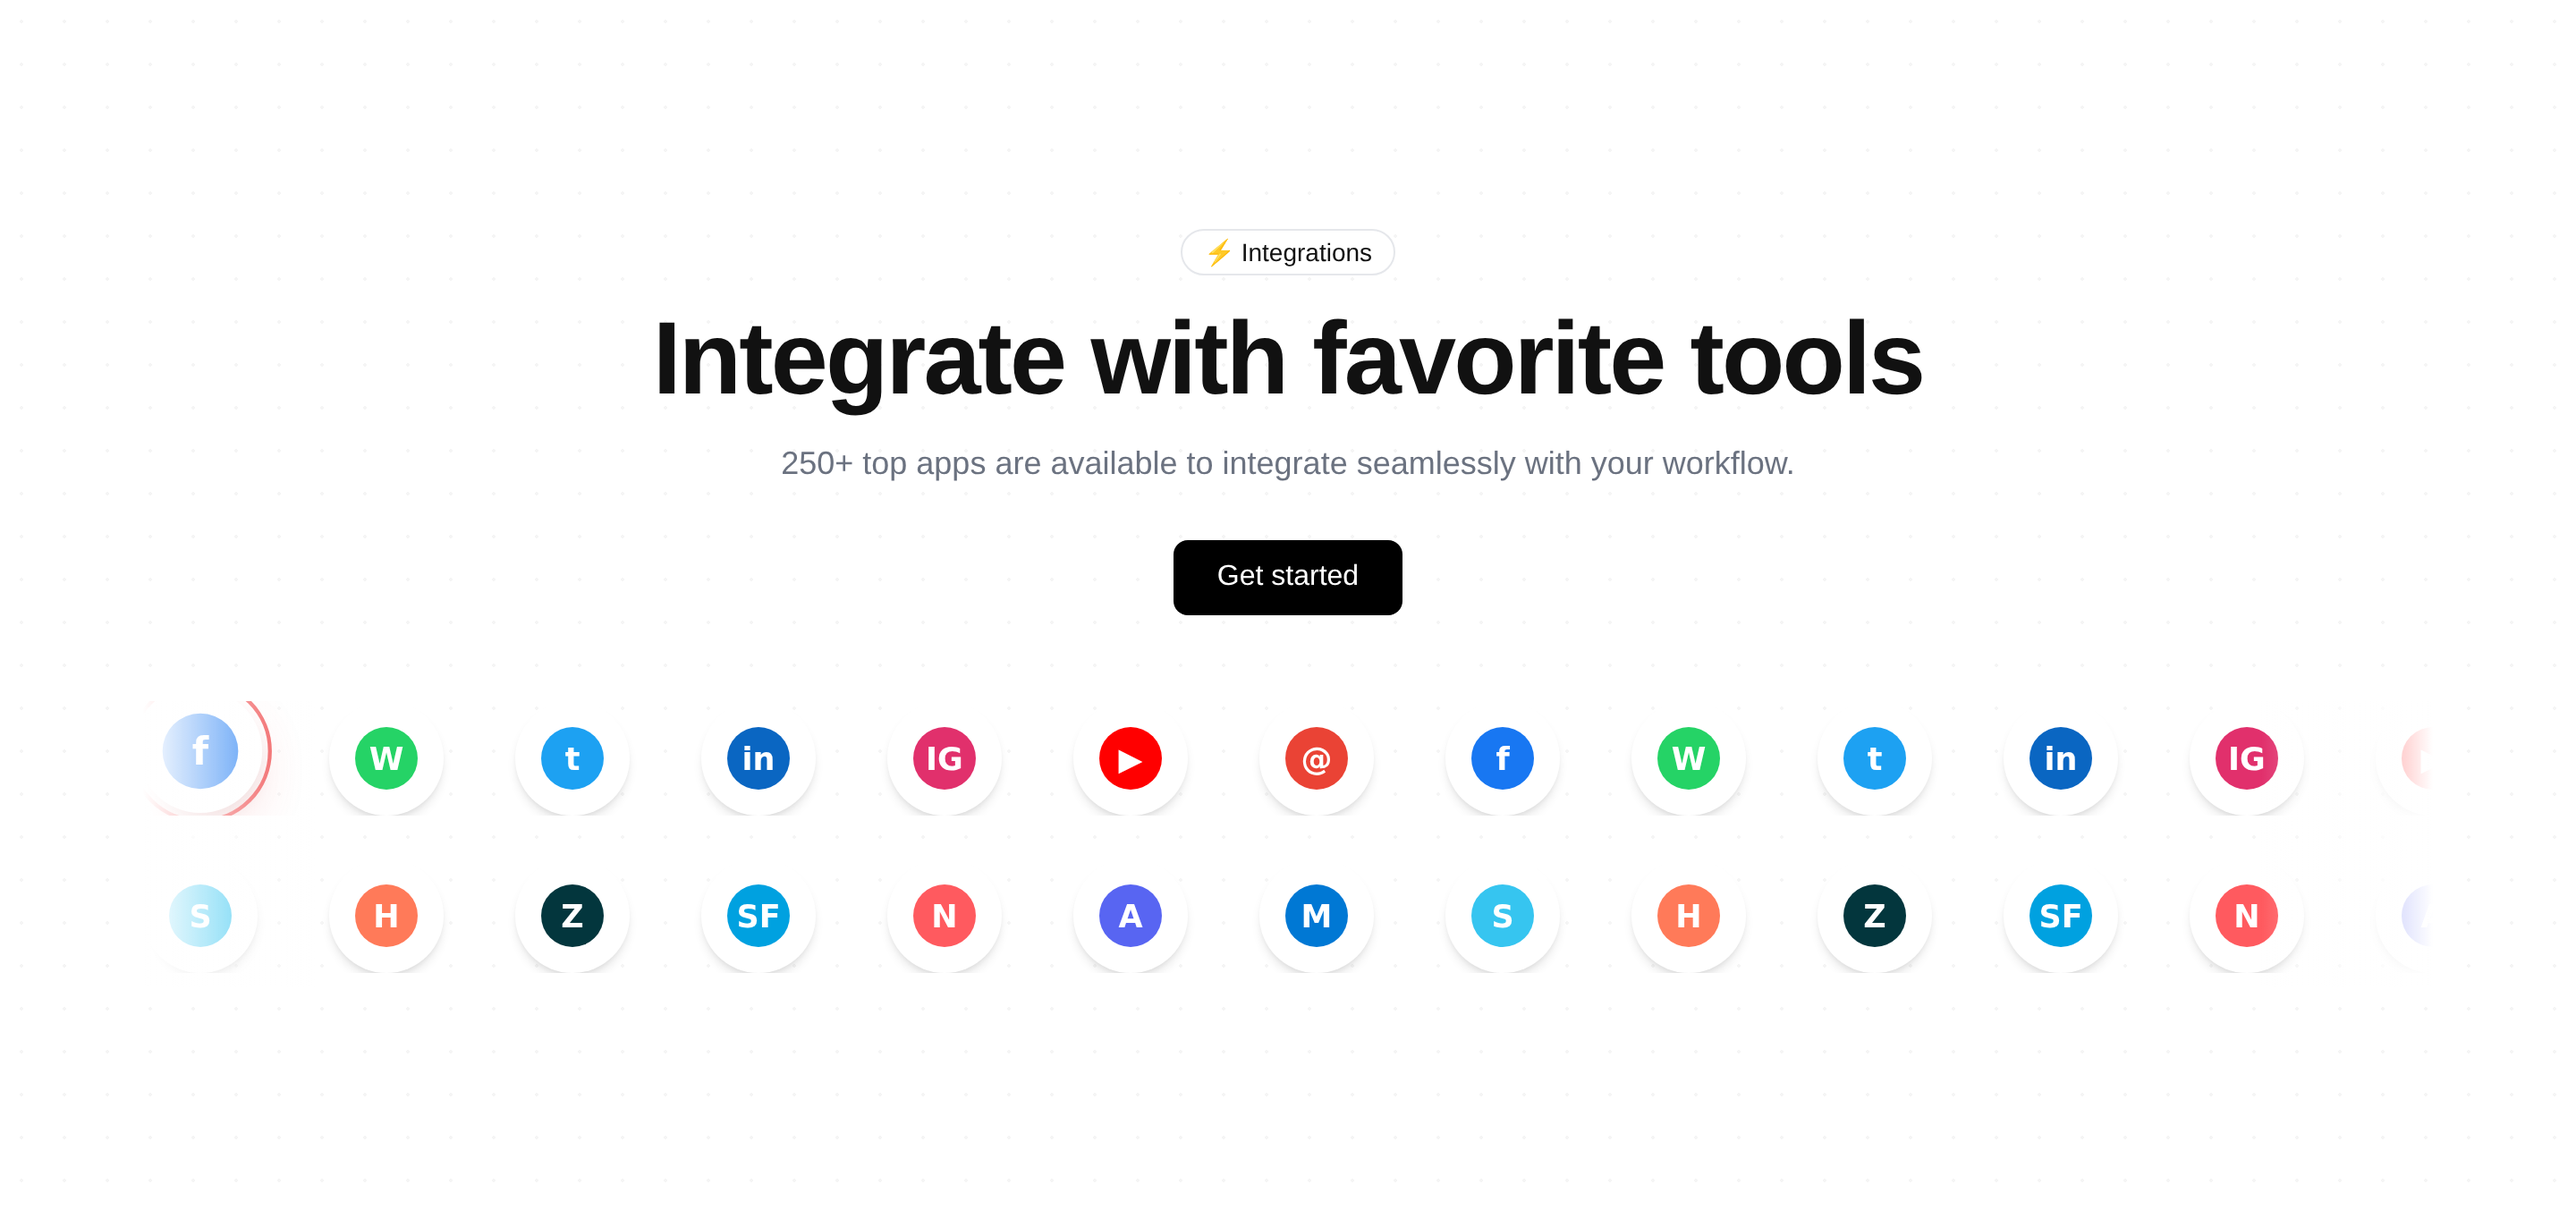
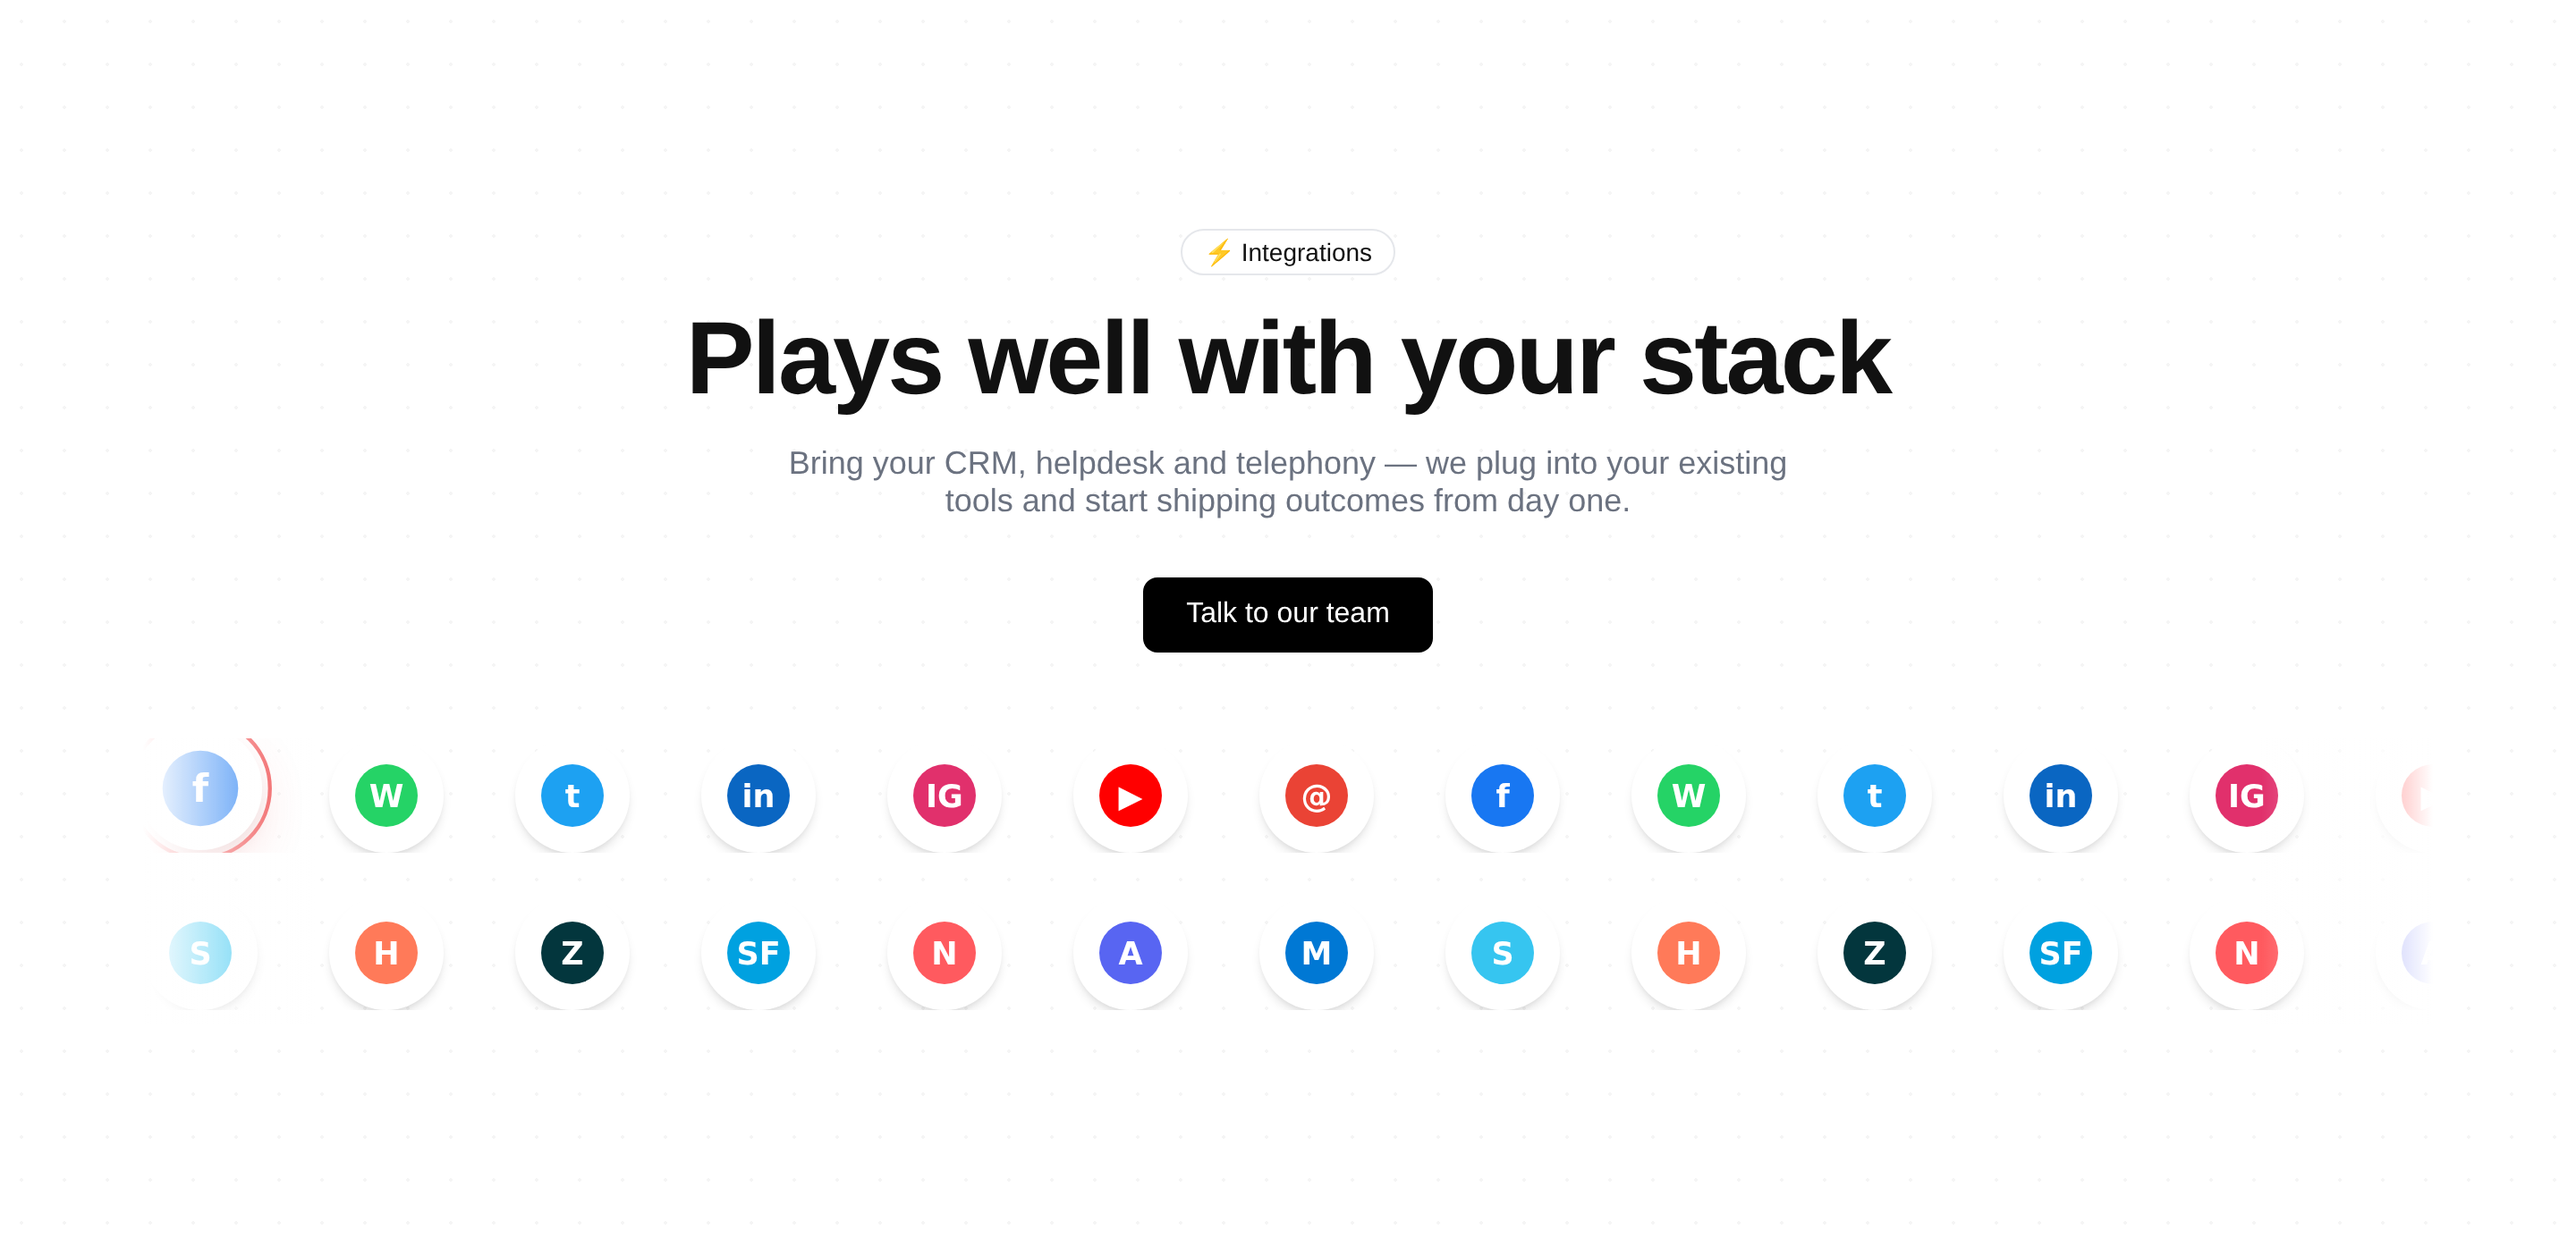
Add static (non-hijacking) hero mode + refresh integrations copy to BPO language
Two changes shipped together.

1. New static mode for the scroll-hero — [bpofirm_scroll_hero static="1"]
   Renders the same banner identity but skips the scroll-hijack:
   - JS bails out of listener attachment when the static class is present
   - CSS shrinks the section to min-height:60vh (was 100dvh) so the page
     scrolls past it like any normal banner
   - 'Scroll to Expand' prompt auto-hides — there is nothing to expand
   Added because forcing every visitor through a scroll-hijacked expand on
   every sibling-page navigation (SEO -> PPC -> Email...) is rough UX. The
   rollout doc now recommends dynamic on the 7 hub pages, static on the 37
   leaves; defaults still match the original brief, owner opts in per page.

2. Integrations copy is now BPO-flavoured
   - Title: 'Integrate with favorite tools' -> 'Plays well with your stack'
   - Lede:  generic SaaS line -> CRM/helpdesk/telephony pitch
   - CTA:   'Get started' -> 'Talk to our team'
   The default Flaticon icon URLs are unchanged; per the rollout doc,
   owner swaps per-page when curated logos are ready.

Preview harness extended to capture the static hero state on both
desktop and mobile. README + rollout doc updated to document the new
static attribute and the recommended scope.

diff --git a/preview/index.html b/preview/index.html
@@ -46,9 +46,9 @@
 		<div class="bpo-integrations__grid-bg" aria-hidden="true"></div>
 		<div class="bpo-integrations__inner">
 			<span class="bpo-integrations__badge">⚡ Integrations</span>
-			<h2 class="bpo-integrations__title">Integrate with favorite tools</h2>
-			<p class="bpo-integrations__lede">250+ top apps are available to integrate seamlessly with your workflow.</p>
-			<a class="bpo-integrations__cta" href="#">Get started</a>
+			<h2 class="bpo-integrations__title">Plays well with your stack</h2>
+			<p class="bpo-integrations__lede">Bring your CRM, helpdesk and telephony — we plug into your existing tools and start shipping outcomes from day one.</p>
+			<a class="bpo-integrations__cta" href="#">Talk to our team</a>
 			<div class="bpo-integrations__carousel" aria-label="Supported integrations">
 				<div class="bpo-integrations__row bpo-integrations__row--left">
 					<div class="bpo-integrations__track" id="track-1"></div>

diff --git a/wp-content/plugins/bpofirm-scroll-hero/assets/scroll-hero.css b/wp-content/plugins/bpofirm-scroll-hero/assets/scroll-hero.css
@@ -161,6 +161,21 @@
 	}
 }
 
+/* Static mode — no scroll hijack. Used on leaf service pages where users
+ * navigate between many siblings and don't want a forced expand on each
+ * page. The JS skips event-listener attachment when this class is present;
+ * here we just shrink the section so it behaves as a normal banner. */
+.bpo-scroll-hero--static {
+	min-height: auto;
+}
+.bpo-scroll-hero--static .bpo-scroll-hero__stage {
+	min-height: 60vh;
+}
+/* "Scroll to Expand" makes no sense when there's nothing to expand. */
+.bpo-scroll-hero--static .bpo-scroll-hero__scroll-label {
+	display: none;
+}
+
 @media (prefers-reduced-motion: reduce) {
 	.bpo-scroll-hero__bg,
 	.bpo-scroll-hero__media-overlay,

diff --git a/preview/screenshot.js b/preview/screenshot.js
@@ -34,6 +34,19 @@ const mobile  = { width: 390,  height: 844 };
 				path: path.join(OUT, `${prefix}-hero-${s.name}.png`),
 			});
 		}
+
+		// Static variant — opt-out of scroll hijack (used on leaf service pages).
+		await page.evaluate(() => {
+			window.__setHeroProgress(0);
+			var hero = document.getElementById('hero');
+			hero.classList.add('bpo-scroll-hero--static');
+			document.getElementById('preview-label').textContent = 'Hero — static (no scroll hijack)';
+		});
+		await page.waitForTimeout(400);
+		await page.locator('#hero').screenshot({
+			path: path.join(OUT, `${prefix}-hero-static.png`),
+		});
+
 		await ctx.close();
 	}
 

diff --git a/wp-content/plugins/bpofirm-scroll-hero/assets/scroll-hero.js b/wp-content/plugins/bpofirm-scroll-hero/assets/scroll-hero.js
@@ -31,6 +31,10 @@
 		if (root.__bpoScrollHeroInit) return;
 		root.__bpoScrollHeroInit = true;
 
+		// Static mode opts out of scroll hijack entirely — the section
+		// just sits there as a normal banner and the page scrolls past.
+		if (root.classList.contains('bpo-scroll-hero--static')) return;
+
 		var mediaType = root.getAttribute('data-media-type') || 'image';
 		var overlayBase = mediaType === 'video' ? 0.5 : 0.7;
 

diff --git a/wp-content/plugins/bpofirm-scroll-hero/bpofirm-scroll-hero.php b/wp-content/plugins/bpofirm-scroll-hero/bpofirm-scroll-hero.php
@@ -83,6 +83,7 @@ add_shortcode(
 				'date'         => '',
 				'scroll_label' => 'Scroll to Expand',
 				'text_blend'   => '1',
+				'static'       => '0',
 			),
 			$atts,
 			'bpofirm_scroll_hero'
@@ -96,13 +97,14 @@ add_shortcode(
 		$first = $parts[0] ?? '';
 		$rest  = $parts[1] ?? '';
 
-		$blend_class = ( '1' === (string) $atts['text_blend'] ) ? ' bpo-scroll-hero--text-blend' : '';
-		$is_youtube  = $atts['media_src'] && false !== strpos( $atts['media_src'], 'youtube.com' );
+		$blend_class  = ( '1' === (string) $atts['text_blend'] ) ? ' bpo-scroll-hero--text-blend' : '';
+		$static_class = ( '1' === (string) $atts['static'] ) ? ' bpo-scroll-hero--static' : '';
+		$is_youtube   = $atts['media_src'] && false !== strpos( $atts['media_src'], 'youtube.com' );
 
 		ob_start();
 		?>
 		<section
-			class="bpo-scroll-hero<?php echo esc_attr( $blend_class ); ?>"
+			class="bpo-scroll-hero<?php echo esc_attr( $blend_class . $static_class ); ?>"
 			data-media-type="<?php echo esc_attr( $atts['media_type'] ); ?>"
 		>
 			<?php if ( $atts['bg_src'] ) : ?>
@@ -178,9 +180,9 @@ add_shortcode(
 		$atts = shortcode_atts(
 			array(
 				'badge'       => '⚡ Integrations',
-				'title'       => 'Integrate with favorite tools',
-				'description' => '250+ top apps are available to integrate seamlessly with your workflow.',
-				'cta_label'   => 'Get started',
+				'title'       => 'Plays well with your stack',
+				'description' => 'Bring your CRM, helpdesk and telephony — we plug into your existing tools and start shipping outcomes from day one.',
+				'cta_label'   => 'Talk to our team',
 				'cta_url'     => '/contact-us/',
 				'icons_row1'  => implode( ',', $defaults['row1'] ),
 				'icons_row2'  => implode( ',', $defaults['row2'] ),

diff --git a/reference/scroll-hero-rollout.md b/reference/scroll-hero-rollout.md
@@ -10,6 +10,12 @@
 >
 > Placeholder media is intentionally identical across pages — owner will swap `media_src` and `bg_src` per page when imagery is ready.
 
+> **Recommendation on scroll-hijack scope.** The dynamic scroll-expand effect is signature on first impression but irritating on repeat visits — and forcing it on every sibling-page navigation (e.g. SEO → PPC → Email) is rough. Suggested split:
+> - **7 hub pages** (Digital Marketing + Call Services + the 5 group hubs) → dynamic `[bpofirm_scroll_hero …]` (scroll hijack on).
+> - **37 leaf pages** (every individual service) → add `static="1"` to switch to a non-hijacking banner. Page scrolls normally; the same visual identity, no forced interaction.
+>
+> Both forms accept identical attributes — just add or remove `static="1"`. Owner override welcome; defaults below leave it off so each page matches the original brief.
+
 ---
 
 ## Progress tracker

diff --git a/wp-content/plugins/bpofirm-scroll-hero/README.md b/wp-content/plugins/bpofirm-scroll-hero/README.md
@@ -30,6 +30,7 @@ Both blocks are styled to match the bpofirm.com brand (accent red `#ef494b`, blu
 | `date` | `""` | Optional small label above the scroll-prompt. |
 | `scroll_label` | `Scroll to Expand` | Scroll-prompt label. Set to empty string to hide. |
 | `text_blend` | `1` | `1` keeps `mix-blend-mode: difference` on the title (default) — adaptive contrast against both the light page bg and the dark gradient card. Set to `0` to force the flat blue-200 colour. |
+| `static` | `0` | Set to `1` to render the banner without scroll-hijacking. Use on leaf service pages where forcing every visitor to scroll-expand on every navigation would be frustrating. Page scroll behaves normally; section sits at 60vh tall. |
 
 Content between the opening / closing tags becomes the post-expand body (hidden until expansion completes):
 
